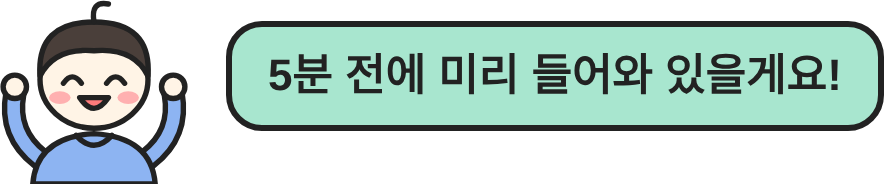
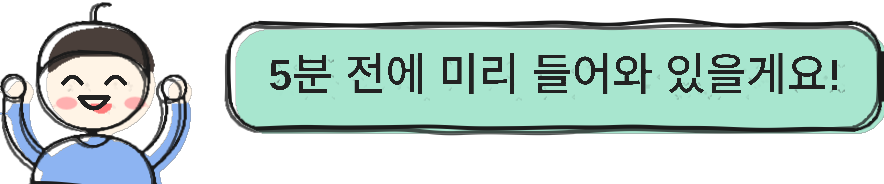
Manual: redraw scene illustrations in doodle style; add doodlify tool
Claude-Session: https://claude.ai/code/session_01HUwuhepcr3Q9E136AZJNkg

diff --git a/tools/doodlify.py b/tools/doodlify.py
@@ -1,0 +1,66 @@
+#!/usr/bin/env python3
+"""깔끔한 선으로 그린 그림(PNG)을 '낙서 느낌'으로 바꾼다.
+- 굵은 검은 테두리선: 가늘게 만들고 삐뚤빼뚤하게 흔든 뒤 한 번 더 겹쳐 그림
+- 색: 선에서 오른쪽 아래로 살짝 밀어 선 밖으로 삐져나오게 함
+- 글자와 작은 점(눈 등), 검은 꼬리표는 그대로 둠
+사용법: python3 doodlify.py 입력.png 출력.png [입력2.png 출력2.png ...]
+필요한 것: numpy, scipy, opencv-python, pillow
+"""
+import sys, numpy as np, cv2
+from PIL import Image
+from scipy import ndimage as ndi
+K = np.array([27, 27, 27], np.float32)
+
+def doodlify(src, dst, seed=7, big=90, bg_dark=False):
+    im = np.asarray(Image.open(src).convert('RGBA')).astype(np.float32)
+    h, w = im.shape[:2]; rgb = im[..., :3]; al = im[..., 3] / 255.0
+    lum = rgb @ np.array([.299, .587, .114], np.float32)
+    chroma = rgb.max(-1) - rgb.min(-1)
+    a = np.clip((58 - lum) / 22, 0, 1) * (chroma < 28) * al           # 검은 선일수록 1
+    m = (a > 0.5).astype(np.uint8)
+    n, lab, stats, _ = cv2.connectedComponentsWithStats(m, connectivity=8)
+    cands = [i for i in range(1, n) if max(stats[i][2], stats[i][3]) >= big]
+    if not cands: Image.open(src).save(dst); return 0
+    cm = np.isin(lab, cands); dall = ndi.distance_transform_edt(cm)
+    t = float(np.clip(4 * np.median(dall[cm]), 2.5, 26))                # 선 굵기
+    line = np.zeros((h, w), bool); frozen = np.zeros((h, w), bool)
+    for i in cands:
+        x, y, bw, bh, area = stats[i]
+        comp = lab[y:y + bh, x:x + bw] == i
+        if dall[y:y + bh, x:x + bw][comp].max() > 1.5 * t:              # 굵게 칠한 검은 면(꼬리표 등): 그대로
+            frozen[max(0, y - 8):y + bh + 8, max(0, x - 8):x + bw + 8] = True; continue
+        line[y:y + bh, x:x + bw] |= comp
+    if not line.any(): Image.open(src).save(dst); return 0
+    d = ndi.distance_transform_edt(line)
+    # 1) 색 층: 선 자리를 가장 가까운 색으로 메우고 오른쪽 아래로 밀기
+    hole = ndi.binary_dilation(line, iterations=2)
+    dark = ndi.binary_dilation(a > 0.08, iterations=1)                 # 글자·눈 등도 색 층에서는 지움
+    keepa = np.where(hole, 0, a)
+    hole = hole | dark
+    idx = ndi.distance_transform_edt(hole, return_distances=False, return_indices=True)
+    base = im[idx[0], idx[1]]
+    dx, dy = min(0.85 * t, 7.0), min(0.7 * t, 6.0)
+    M = np.float32([[1, 0, dx], [0, 1, dy]])
+    base = cv2.warpAffine(base, M, (w, h), flags=cv2.INTER_LINEAR, borderMode=cv2.BORDER_REPLICATE)
+    # 글자·눈처럼 그대로 둘 검은 부분과 검은 면은 원래 자리에 다시 올림
+    keep = np.clip(keepa, 0, 1)[..., None]
+    base[..., :3] = base[..., :3] * (1 - keep) + rgb * keep; base[..., 3] = np.maximum(base[..., 3], keep[..., 0] * 255)
+    base[frozen] = im[frozen]
+    # 2) 선 층: 가늘게, 흔들어서, 두 번
+    la = np.clip(d - 0.19 * t + 0.5, 0, 1).astype(np.float32)
+    rng = np.random.default_rng(seed); yy, xx = np.mgrid[0:h, 0:w].astype(np.float32)
+    def wobble(alpha, amp, ox, oy, sig):
+        fx = ndi.gaussian_filter(rng.standard_normal((h, w)).astype(np.float32), sig); fy = ndi.gaussian_filter(rng.standard_normal((h, w)).astype(np.float32), sig)
+        fx *= amp / (np.abs(fx).max() + 1e-6); fy *= amp / (np.abs(fy).max() + 1e-6)
+        return cv2.remap(alpha, xx + fx - ox, yy + fy - oy, cv2.INTER_LINEAR, borderMode=cv2.BORDER_REPLICATE)
+    l1 = wobble(la, 0.5 * t, 0, 0, 3.2 * t); l2 = wobble(la, 0.6 * t, -0.3 * t, 0.3 * t, 2.6 * t) * 0.75
+    out = base.copy()
+    for l in (l1, l2):
+        l3 = l[..., None]
+        out[..., :3] = out[..., :3] * (1 - l3) + K * l3; out[..., 3] = np.maximum(out[..., 3], l * 255)
+    out[frozen] = im[frozen]
+    Image.fromarray(np.clip(out, 0, 255).astype(np.uint8)).save(dst, optimize=True); return t
+
+if __name__ == '__main__':
+    args = sys.argv[1:]
+    for s, o in zip(args[0::2], args[1::2]): print(s, '->', o, 'line', round(doodlify(s, o), 1))
